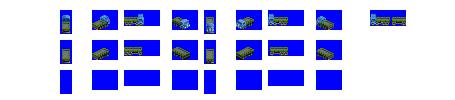
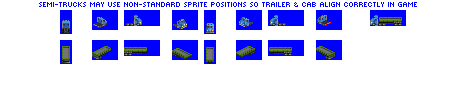
Change: new sprites for Yeoman open truck (also changes lengths)

diff --git a/src/vehicles/yeoman.py b/src/vehicles/yeoman.py
@@ -9,16 +9,16 @@ consist = RVConsist(id = 'yeoman',
               intro_date = 1968)
 
 consist.add_unit(OpenHauler(consist = consist,
-                        weight = 10,
-                        capacity = 10,
-                        vehicle_length = 5,
-                        effects = ['EFFECT_SPRITE_DIESEL, -2, 1, 10'],
+                        weight = 7,
+                        vehicle_length = 2,
+                        semi_truck_shift_offset_jank = 2,
+                        visual_effect = 'VISUAL_EFFECT_DIESEL',
                         spriterow_num = 0))
 
 consist.add_unit(OpenHauler(consist = consist,
                         weight = 5,
-                        capacity = 15,
-                        vehicle_length = 5,
+                        capacity = 40,
+                        vehicle_length = 6,
                         spriterow_num = 1))
 
 consist.add_model_variant(intro_date=0,
